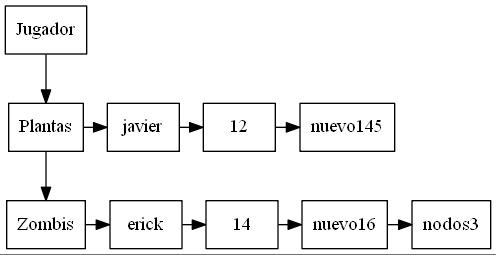
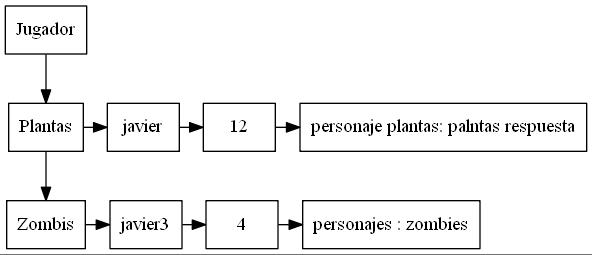
graficos, pila,cola,jugadores,personajes, reparado lo de personajes

diff --git a/Plants/src/plants/graficar.java b/Plants/src/plants/graficar.java
@@ -262,15 +262,17 @@ public class graficar {
         /*for(int j=0;j<tam;j++)
         {
             temporal.Insertar(plantas.Extraer());
-        }
-        for(int i=tam;i<tamanoPila-1;i++)
-        {
-         texto=texto+"|<f"+tam+">";   
         }*/
+        
+        
         for(int i=0;i<tam;i++)
         {
             temp=(objeto)zombies.extraer();
             texto=texto+"|"+"<f"+i+">"+temp.getNombre();
+        }
+        for(int i=tam;i<(tamanoCola-1);i++)
+        {
+         texto=texto+"<f"+tam+">|";   
         }
        
         
@@ -298,6 +300,7 @@ public class graficar {
            
            Runtime rt=Runtime.getRuntime();
            rt.exec(cmd);
+           
         }catch(Exception ex){
             ex.printStackTrace();
         }finally{

diff --git a/Plants/src/plants/mostrarGrafico.java b/Plants/src/plants/mostrarGrafico.java
@@ -71,8 +71,9 @@ public class mostrarGrafico extends javax.swing.JInternalFrame {
 
 public void cambiarImagen(String img)
     {
+        img="jugadores";
         
-        String path="C:\\Users\\javier\\Documents\\1semestre 2015\\edd\\Practica1s12015_201212840\\Plants\\src\\plants\\Reportes\\"+img+".png";
+        String path="C:\\Users\\javier\\Documents\\1semestre 2015\\edd\\Practica1s12015_201212840\\Plants\\src\\plants\\Reportes"+img+".png";
         ImageIcon imgIcon = new ImageIcon(getClass().getResource(path));
         Image imgEscalada = imgIcon.getImage().getScaledInstance(75,75, Image.SCALE_SMOOTH);
         Icon iconoEscalado = new ImageIcon(imgEscalada);
